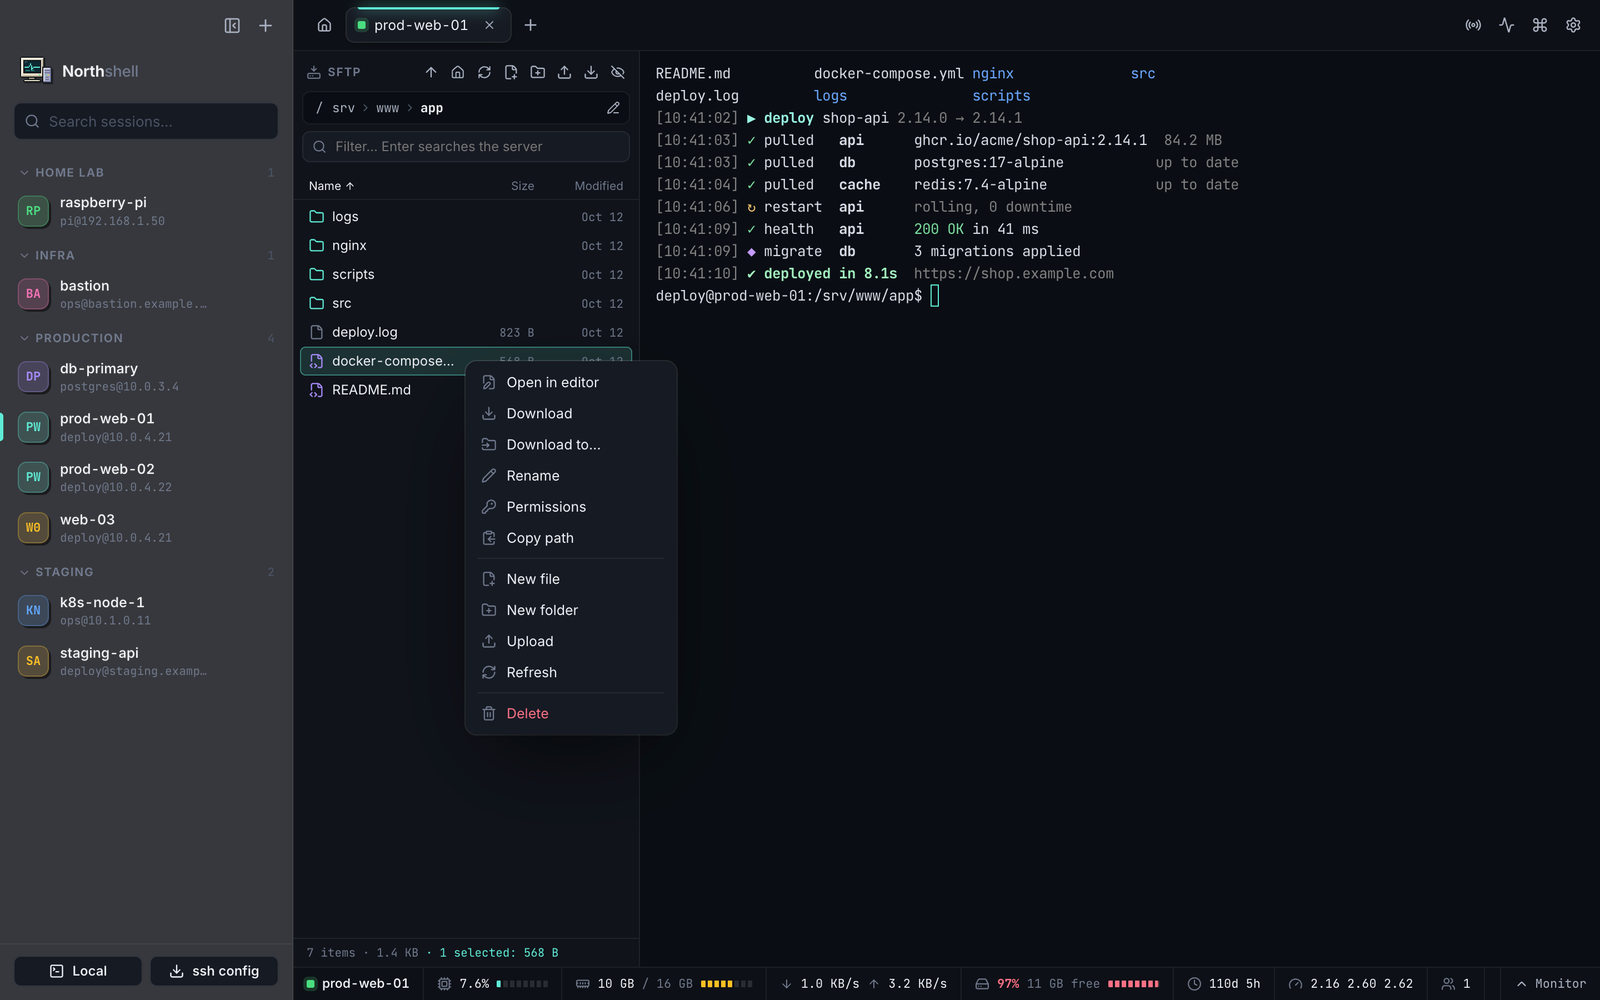
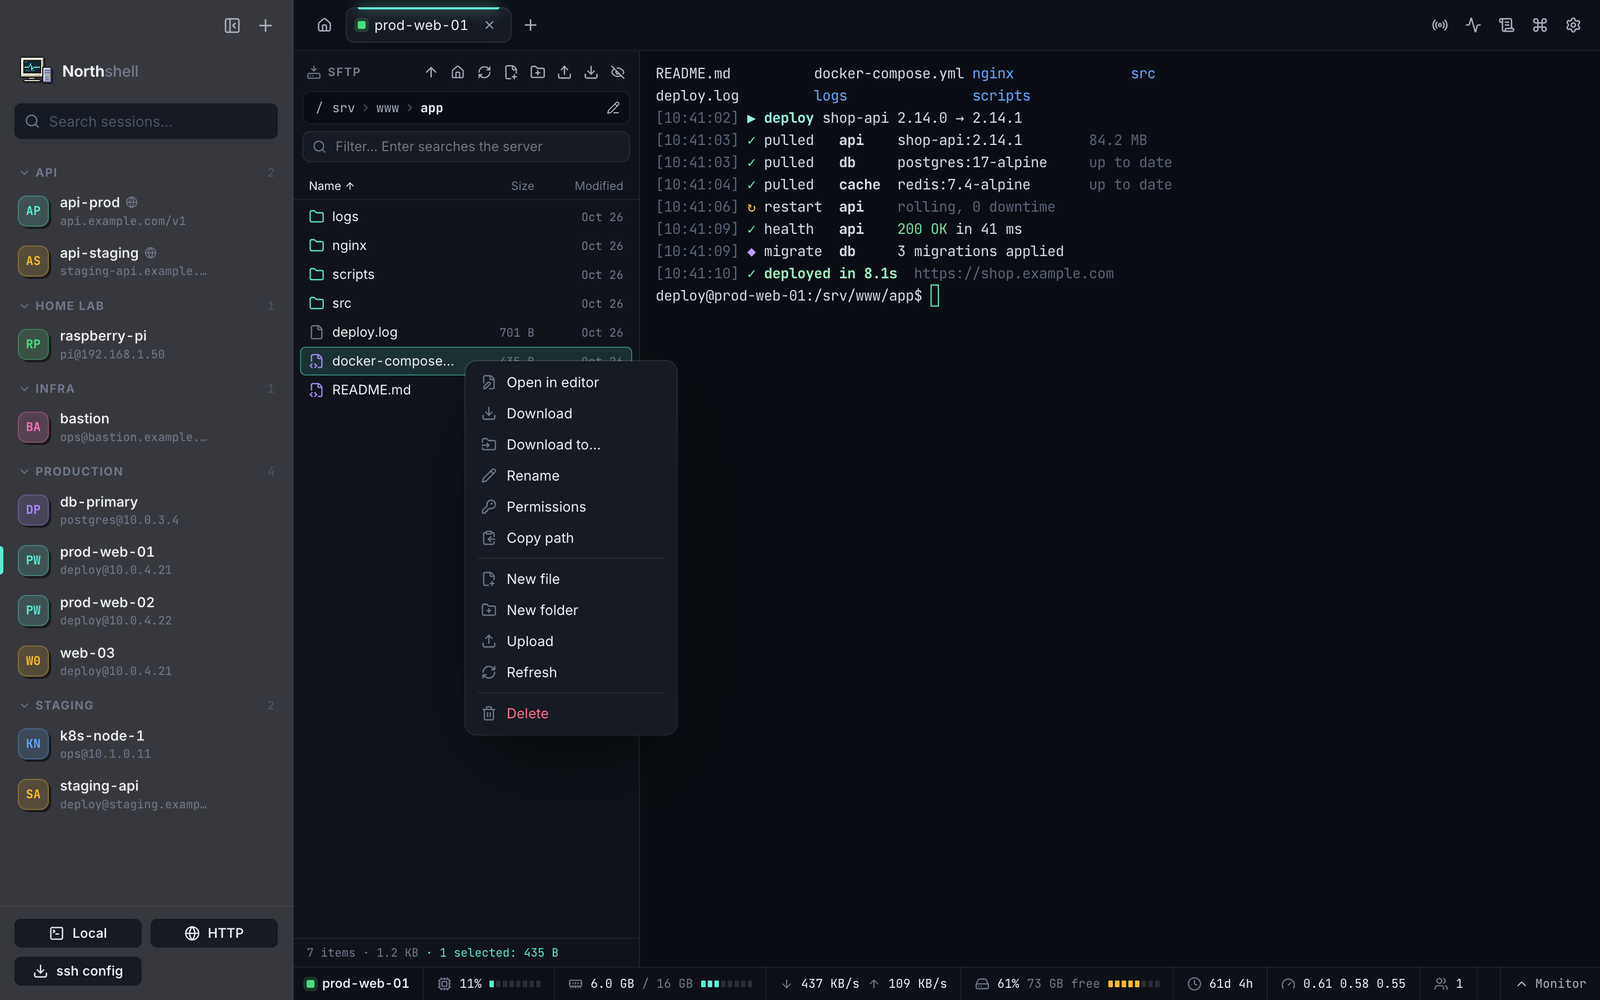
docs: retake screenshots for 1.4.0 and add the command library and HTTP environment images
- main, welcome, palette, session editor, themes, light, SFTP menu and search
  now show the HTTP footer button, the command library button and panel
- theme-moba shows the current version in the info box
- new command-library.png and http-environment.png, referenced from the
  matching sections of README.md and README.ru.md

diff --git a/README.ru.md b/README.ru.md
@@ -12,7 +12,7 @@
 
 [Скачать](#установка) · [Возможности](#возможности) · [Скриншоты](#скриншоты) · [Начало работы](#начало-работы) · [Сборка](#сборка-из-исходников) · [English](README.md)
 
-<img src="docs/screenshots/main.png" alt="Главное окно Northshell: сессии, SFTP-браузер, терминал и монитор сервера" />
+<img src="docs/screenshots/main.png" alt="Главное окно Northshell: сессии, SFTP-браузер, терминал, библиотека команд и монитор сервера" />
 
 </div>
 
@@ -41,10 +41,14 @@ MobaXterm — популярный SSH-инструмент «всё в одно
 - Параметры: `{{id}}` или `{{limit:20}}` — значение спрашивается перед запуском.
 - Всё хранится в обычном файле `commands.json`: его можно править руками, изменения сразу видны в приложении; импорт и экспорт — чтобы перенести библиотеку на другой Mac или поделиться с коллегами.
 
+<img src="docs/screenshots/command-library.png" width="720" alt="Панель библиотеки команд рядом с терминалом: команды этого подключения и общие команды, две из них уже выполнены" />
+
 **HTTP-окружения (curl)**
 - Тип подключения для API без SSH: локальный терминал, подготовленный для однотипных `curl`-запросов к одному серверу.
 - В шелле заданы `$BASE_URL` и `$TOKEN` (токен хранится в связке ключей), а ваши заголовки (например, `Authorization: Bearer $TOKEN`) автоматически добавляются к каждому `curl`.
 - `curl -k` для self-signed сертификатов по желанию; типовые запросы окружения — в его разделе библиотеки команд.
+
+<img src="docs/screenshots/http-environment.png" width="720" alt="Диалог «Новое HTTP-окружение»: базовый URL, токен, заголовки curl и переключатель SSH / HTTP" />
 
 **SFTP и редактор файлов**
 - Панель файлов рядом с терминалом: путь «хлебными крошками», сортировка по имени, размеру и дате, изменяемая ширина.

diff --git a/README.md b/README.md
@@ -12,7 +12,7 @@ A free, open-source MobaXterm alternative for macOS: an SSH client and terminal 
 
 [Download](#installation) · [Features](#features) · [Screenshots](#screenshots) · [Getting started](#getting-started) · [Build from source](#building-from-source) · [Русский](README.ru.md)
 
-<img src="docs/screenshots/main.png" alt="Northshell main window: sessions, SFTP browser, terminal and server monitor" />
+<img src="docs/screenshots/main.png" alt="Northshell main window: sessions, SFTP browser, terminal, command library and server monitor" />
 
 </div>
 
@@ -41,10 +41,14 @@ MobaXterm is a popular all-in-one SSH tool, but it only runs on Windows. Northsh
 - Placeholders: `{{id}}` or `{{limit:20}}` ask for a value before the command runs.
 - Stored in a plain `commands.json` you can edit by hand — changes appear in the app immediately; import and export to share a library between Macs or with your team.
 
+<img src="docs/screenshots/command-library.png" width="720" alt="Command library panel next to the terminal: commands private to the connection and shared commands, with two of them already run" />
+
 **HTTP environments (curl)**
 - A connection type for APIs with no SSH at all: a local terminal prepared for repeated `curl` requests to one server.
 - `$BASE_URL` and `$TOKEN` (token kept in the Keychain) are set in the shell, and your default headers (e.g. `Authorization: Bearer $TOKEN`) are added to every `curl` automatically.
 - Optional `curl -k` for self-signed certificates; keep the environment's typical requests in its own section of the command library.
+
+<img src="docs/screenshots/http-environment.png" width="720" alt="New HTTP environment dialog: base URL, token, curl headers and the SSH / HTTP switch" />
 
 **SFTP browser and editor**
 - File panel next to the terminal with breadcrumbs, sorting by name, size or date, and a resizable width.
